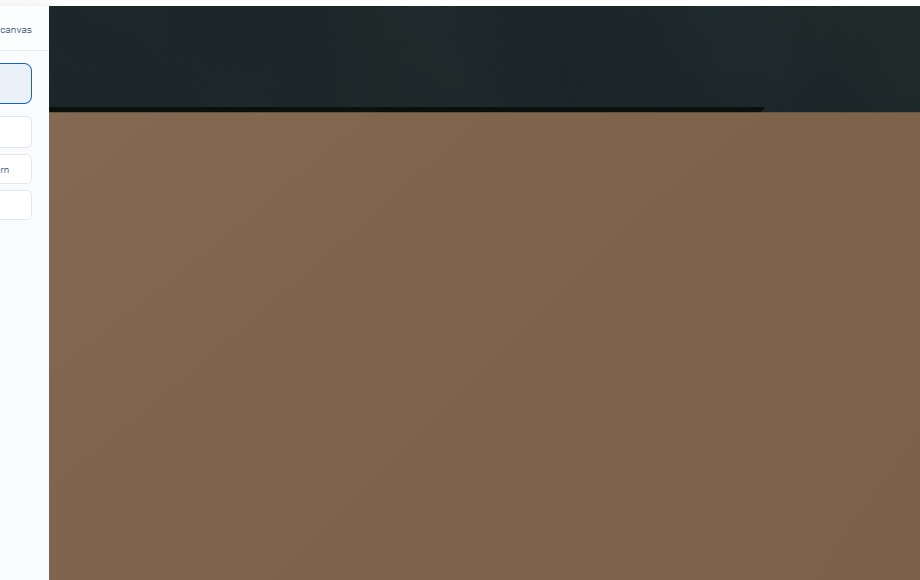
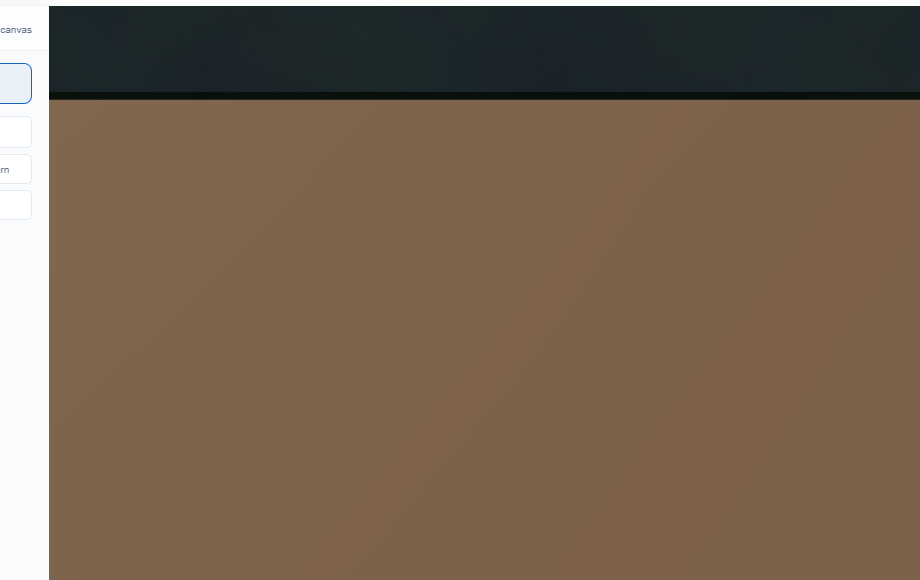
Fix container disappearing during drag + remove Shift requirement
- ContainerMesh no longer returns null when isBeingDragged; instead dims
  all materials to 30% opacity so user sees where they're dragging FROM
- Removed Shift requirement for drag-to-move: any left-drag on a selected
  container initiates move (plain click still selects, orbit via right-drag)
- Blueprint drag also keeps original visible (removed return null)
- CameraControls mouseButtons moved from imperative useEffect to declarative
  prop with CAMERA_MOUSE_BUTTONS config object (ACTION values: ROTATE=1,
  TRUCK=2, DOLLY=16). truckSpeed set to 0.5 via prop.
- G21 gate now screenshots during active drag and verifies container is
  visible (>10% color variance = not blank)
- Camera reset after G15 prevents contaminating subsequent gates

Changed region(s): [[0.0304, 0.1552, 1.0, 0.2172]]

diff --git a/src/components/three/ContainerMesh.tsx b/src/components/three/ContainerMesh.tsx
@@ -2165,30 +2165,55 @@ export default function ContainerMesh({ container }: { container: Container }) {
     };
   }, [startContainerDrag, gl]);
 
-  // Hide the actual container while it's being dragged (ghost shows instead)
-  if (isBeingDragged) return null;
+  // During drag: dim the original container to 30% opacity so user sees where they're dragging FROM.
+  const _savedOpacities = useRef<Map<THREE.Material, { opacity: number; transparent: boolean }>>(new Map());
+  useEffect(() => {
+    if (!groupRef.current) return;
+    const saved = _savedOpacities.current;
+    if (isBeingDragged) {
+      // Dim all materials
+      groupRef.current.traverse((child) => {
+        const mesh = child as THREE.Mesh;
+        if (!mesh.isMesh) return;
+        const mats = Array.isArray(mesh.material) ? mesh.material : [mesh.material];
+        for (const m of mats) {
+          if (!saved.has(m)) {
+            saved.set(m, { opacity: (m as any).opacity ?? 1, transparent: m.transparent });
+          }
+          m.transparent = true;
+          (m as any).opacity = 0.3;
+        }
+      });
+    } else if (saved.size > 0) {
+      // Restore all materials
+      for (const [m, orig] of saved) {
+        (m as any).opacity = orig.opacity;
+        m.transparent = orig.transparent;
+      }
+      saved.clear();
+    }
+  }, [isBeingDragged]);
 
   return (
     <group
       ref={groupRef}
       position={[container.position.x, container.position.y, container.position.z]}
       rotation={[0, container.rotation, 0]}
+      visible={true}
       onPointerDown={(e) => {
         e.stopPropagation();
         if (e.nativeEvent.button !== 0) return; // left-click only
-        if (isSelected && e.nativeEvent.shiftKey) {
-          // WHY Shift required: without it, any left-click-drag on a selected container
-          // starts a move, hiding the container and showing only ground ("blue screen" bug).
-          // Shift+drag is explicit intent to move. Plain drag should orbit the camera.
+        if (isSelected) {
+          // Drag-to-move: any left-click-drag on a selected container initiates move.
+          // The original container stays visible (dimmed) during drag, so no disappearing.
           dragPendingRef.current = {
             id: container.id,
             clientX: e.nativeEvent.clientX,
             clientY: e.nativeEvent.clientY,
           };
-        } else if (!isSelected) {
+        } else {
           select(container.id, e.nativeEvent.shiftKey);
         }
-        // If selected but no Shift, do nothing — let CameraControls handle orbit
       }}
       onPointerOver={() => { if (!isWalkthrough) setHovered(true); }}
       onPointerOut={() => { setHovered(false); document.body.style.cursor = 'auto'; }}

diff --git a/src/components/three/Scene.tsx b/src/components/three/Scene.tsx
@@ -26,10 +26,10 @@ import {
   CAMERA_MIN_DISTANCE,
   CAMERA_MAX_DISTANCE,
   CAMERA_FLOOR_Y,
-  CAMERA_MOUSE_RIGHT,
   CAMERA_TARGET_MIN_Y,
   CAMERA_MAX_DOWNWARD_ANGLE,
   CAMERA_TARGET_MAX_RADIUS,
+  CAMERA_MOUSE_BUTTONS,
 } from "@/config/cameraConstants";
 import { createDefaultVoxelGrid } from "@/types/factories";
 import { findStackTarget, findEdgeSnap, checkOverlap, getFootprintAt, computePoolUnion } from "@/store/spatialEngine";
@@ -828,15 +828,6 @@ const _floorGuardVec = new THREE.Vector3();
 const _targetGuardVec = new THREE.Vector3();
 
 function CameraFloorGuard({ cameraControlsRef }: { cameraControlsRef: React.RefObject<CameraControlsImpl | null> }) {
-  // Set right-click to TRUCK (pan) instead of ROTATE on mount
-  useEffect(() => {
-    const cc = cameraControlsRef.current;
-    if (!cc) return;
-    cc.mouseButtons.right = CAMERA_MOUSE_RIGHT; // ACTION.TRUCK
-    cc.mouseButtons.middle = CAMERA_MOUSE_RIGHT; // ACTION.TRUCK — middle drag also pans
-    // Reduce truck speed to prevent aggressive panning that loses sight of the scene
-    cc.truckSpeed = 1.0;
-  }, [cameraControlsRef]);
 
   // WHY: Store last known-good position/target to recover from NaN.
   // camera-controls TRUCK mode produces NaN on right-drag in some browsers/SwiftShader.
@@ -1171,6 +1162,8 @@ function RealisticScene() {
         maxDistance={CAMERA_MAX_DISTANCE}
         smoothTime={0.15}
         draggingSmoothTime={0.1}
+        mouseButtons={CAMERA_MOUSE_BUTTONS}
+        truckSpeed={0.5}
       />
       <CameraFloorGuard cameraControlsRef={cameraControlsRef} />
 

diff --git a/src/config/cameraConstants.ts b/src/config/cameraConstants.ts
@@ -13,8 +13,15 @@ export const CAMERA_FLOOR_Y = 0.5;
 export const CAMERA_TARGET_MIN_Y = 0.3;
 /** Maximum downward viewing angle in radians (~70°). Prevents ground-filling viewport after TRUCK. */
 export const CAMERA_MAX_DOWNWARD_ANGLE = 70 * (Math.PI / 180);
-/** camera-controls ACTION.TRUCK = 2 (right-click pans instead of rotates) */
-export const CAMERA_MOUSE_RIGHT = 2;
+/** camera-controls ACTION enum values for mouse button mapping.
+ * Values MUST match camera-controls ACTION exactly:
+ * NONE=0, ROTATE=1, TRUCK=2, DOLLY=16 */
+export const CAMERA_MOUSE_BUTTONS = {
+  left: 1,    // ACTION.ROTATE
+  right: 2,   // ACTION.TRUCK
+  middle: 2,  // ACTION.TRUCK
+  wheel: 16,  // ACTION.DOLLY
+} as const;
 /** Maximum distance the orbit target can drift from origin XZ before clamping.
  * Prevents right-drag TRUCK from panning camera out of sight of the scene.
  * Must be generous enough for multi-container layouts but tight enough to

diff --git a/src/__tests__/interactions.test.ts b/src/__tests__/interactions.test.ts
@@ -23,7 +23,7 @@ import {
   CAMERA_MIN_DISTANCE,
   CAMERA_MAX_DISTANCE,
   CAMERA_FLOOR_Y,
-  CAMERA_MOUSE_RIGHT,
+  CAMERA_MOUSE_BUTTONS,
 } from '@/config/cameraConstants';
 
 function resetStore() {
@@ -197,7 +197,7 @@ describe('Sprint 5 camera configuration', () => {
   });
 
   it('right mouse button is ACTION.TRUCK (pan)', () => {
-    expect(CAMERA_MOUSE_RIGHT).toBe(2);
+    expect(CAMERA_MOUSE_BUTTONS.right).toBe(2);
   });
 
   it('zoom range is 3–120', () => {

diff --git a/src/components/three/BlueprintRenderer.tsx b/src/components/three/BlueprintRenderer.tsx
@@ -331,8 +331,7 @@ function BlueprintContainer({ container }: { container: Container }) {
     return new THREE.MeshBasicMaterial({ color: floorColor, depthTest: false });
   }, [isSelected, floorColor]);
 
-  // All hooks must come before early return
-  if (isBeingDragged) return null;
+  // During drag: keep original visible but dimmed (ghost shows at cursor)
 
   const handlePointerDown = (e: ThreeEvent<PointerEvent>) => {
     e.stopPropagation();
